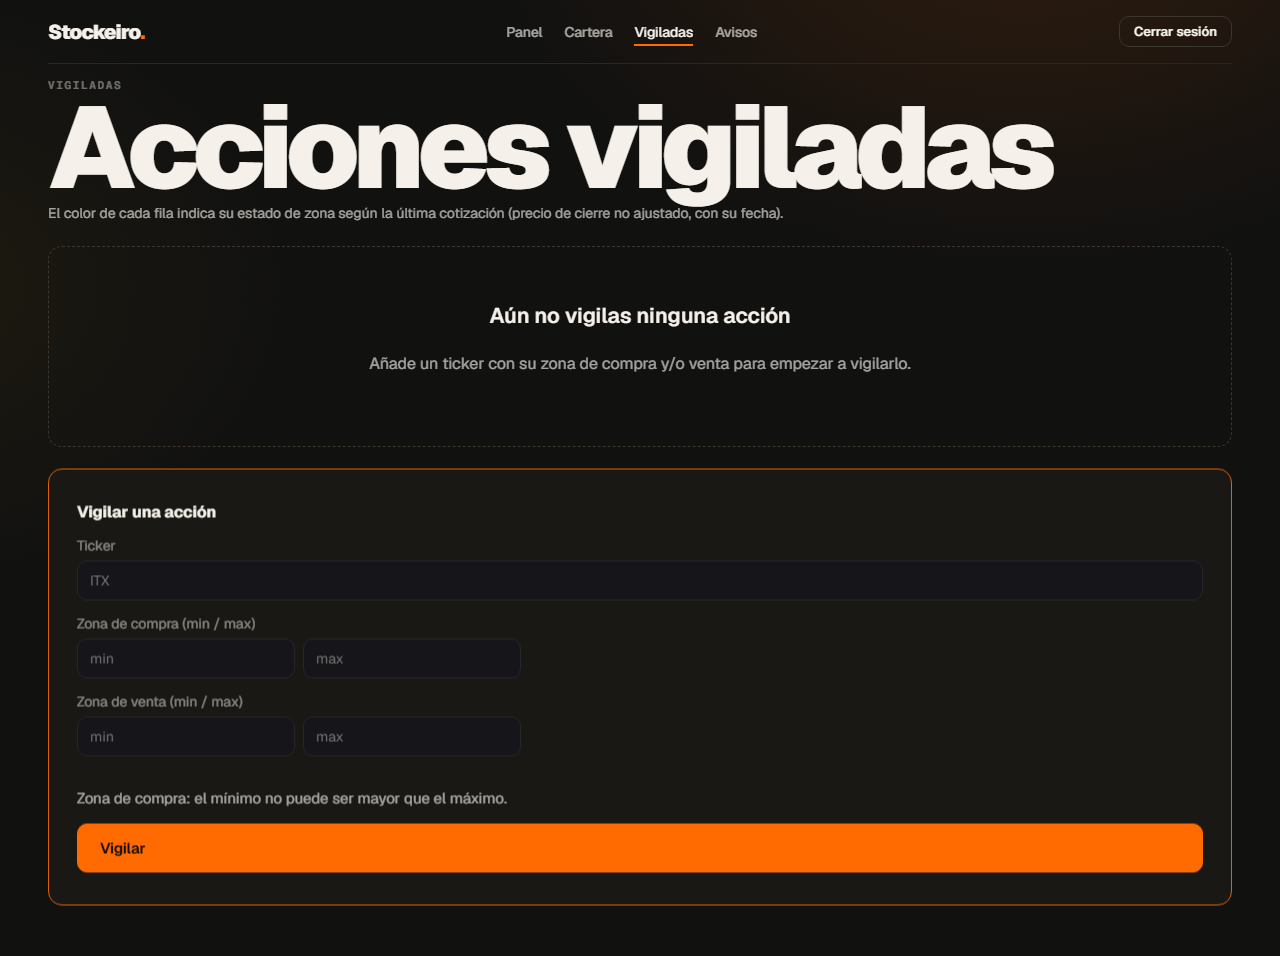
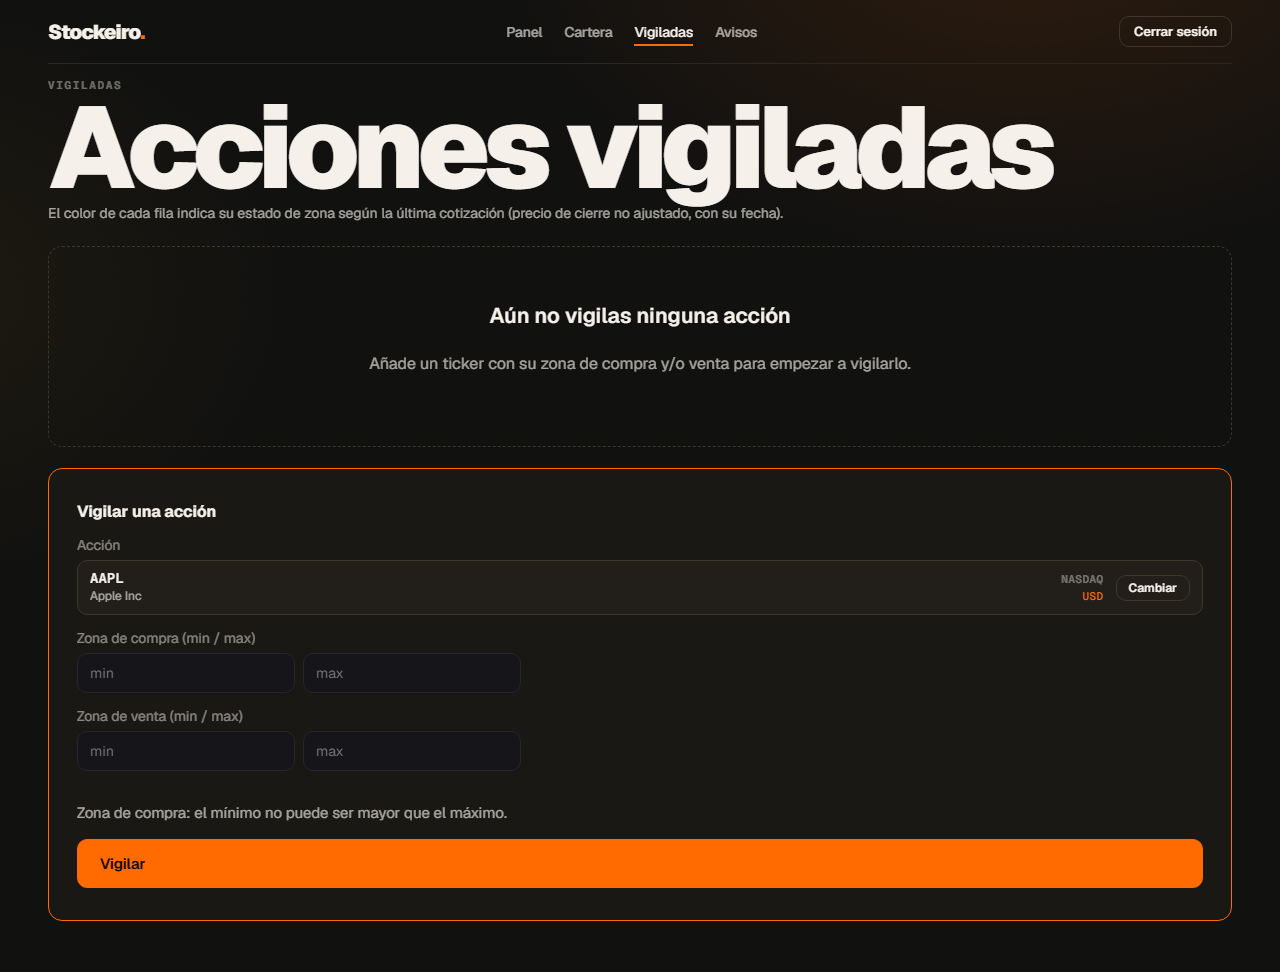
test(SPEC-008): veredicto RED del verificador — regresión buscador no resetea
Gates verde (105 unit) salvo e2e avisos-zona (2º alta): SymbolSearch no
se resetea tras envío con éxito. Ledger con Verif/Estado y V-SPEC-008-1;
evidencia DOM en _qa/SPEC-008/. Spec -> en-progreso.

Refs: SPEC-008

diff --git a/_qa/SPEC-008/V-SPEC-008-1-buscador-no-resetea.md b/_qa/SPEC-008/V-SPEC-008-1-buscador-no-resetea.md
@@ -1,0 +1,207 @@
+# Instructions
+
+- Following Playwright test failed.
+- Explain why, be concise, respect Playwright best practices.
+- Provide a snippet of code with the fix, if possible.
+
+# Test info
+
+- Name: avisos-zona.spec.ts >> SPEC-007: /vigiladas colorea la fila según el estado de zona
+- Location: tests\e2e\avisos-zona.spec.ts:52:1
+
+# Error details
+
+```
+Test timeout of 60000ms exceeded.
+```
+
+```
+Error: locator.fill: Test timeout of 60000ms exceeded.
+Call log:
+  - waiting for locator('form').filter({ hasText: 'Vigilar una acción' }).locator('.symbol-search-input')
+
+```
+
+# Page snapshot
+
+```yaml
+- generic [active] [ref=e1]:
+  - generic [ref=e2]:
+    - navigation "Principal" [ref=e3]:
+      - link "Stockeiro." [ref=e4] [cursor=pointer]:
+        - /url: /dashboard
+      - generic [ref=e5]:
+        - link "Panel" [ref=e6] [cursor=pointer]:
+          - /url: /dashboard
+        - link "Cartera" [ref=e7] [cursor=pointer]:
+          - /url: /cartera
+        - link "Vigiladas" [ref=e8] [cursor=pointer]:
+          - /url: /vigiladas
+        - link "Avisos" [ref=e9] [cursor=pointer]:
+          - /url: /avisos
+      - button "Cerrar sesión" [ref=e11] [cursor=pointer]
+    - main [ref=e12]:
+      - generic [ref=e13]:
+        - generic [ref=e14]: Vigiladas
+        - heading "Acciones vigiladas" [level=1] [ref=e15]
+        - paragraph [ref=e16]: El color de cada fila indica su estado de zona según la última cotización (precio de cierre no ajustado, con su fecha).
+      - table [ref=e18]:
+        - rowgroup [ref=e19]:
+          - row "Ticker Estado Precio A fecha Zona compra Zona venta acciones" [ref=e20]:
+            - columnheader "Ticker" [ref=e21]
+            - columnheader "Estado" [ref=e22]
+            - columnheader "Precio" [ref=e23]
+            - columnheader "A fecha" [ref=e24]
+            - columnheader "Zona compra" [ref=e25]
+            - columnheader "Zona venta" [ref=e26]
+            - columnheader "acciones" [ref=e27]
+        - rowgroup [ref=e28]:
+          - row "REP Sin cotización — — 20 – 25 — Quitar" [ref=e29]:
+            - cell "REP" [ref=e30]
+            - cell "Sin cotización" [ref=e31]:
+              - generic [ref=e32]: Sin cotización
+            - cell "—" [ref=e34]
+            - cell "—" [ref=e35]
+            - cell "20 – 25" [ref=e36]
+            - cell "—" [ref=e37]
+            - cell "Quitar" [ref=e38]:
+              - button "Quitar" [ref=e40] [cursor=pointer]
+      - generic [ref=e41]:
+        - strong [ref=e42]: Vigilar una acción
+        - generic [ref=e43]:
+          - generic [ref=e44]: Acción
+          - generic [ref=e45]:
+            - generic [ref=e46]:
+              - strong [ref=e47]: REP
+              - generic [ref=e48]: Repsol SA
+            - generic [ref=e49]:
+              - generic [ref=e50]: BME
+              - generic [ref=e51]: EUR
+            - button "Cambiar" [ref=e52] [cursor=pointer]
+        - generic [ref=e53]:
+          - text: Zona de compra (min / max)
+          - generic [ref=e54]:
+            - textbox "Zona de compra (min / max)" [ref=e55]:
+              - /placeholder: min
+            - textbox "max" [ref=e56]
+        - generic [ref=e57]:
+          - text: Zona de venta (min / max)
+          - generic [ref=e58]:
+            - textbox "Zona de venta (min / max)" [ref=e59]:
+              - /placeholder: min
+            - textbox "max" [ref=e60]
+        - button "Vigilar" [ref=e61] [cursor=pointer]
+  - alert [ref=e62]
+```
+
+# Test source
+
+```ts
+  1   | import { test, expect, type Page } from '@playwright/test';
+  2   | import postgres from 'postgres';
+  3   | 
+  4   | // Render real de SPEC-007: color de fondo según estado de zona en /vigiladas, y bandeja
+  5   | // /avisos con contador de no-leídos y marcar-leído. Se siembran cotizaciones/avisos por SQL
+  6   | // (como haría la ingesta/notificación), sin llamar a APIs externas.
+  7   | const DB_URL = 'postgres://postgres:postgres@localhost:54329/stockeiro_e2e';
+  8   | const SHOTS = '_qa/SPEC-007';
+  9   | const PWD = 'clave-secreta-123';
+  10  | 
+  11  | async function registrarYEntrar(page: Page, email: string) {
+  12  |   await page.goto('/register');
+  13  |   await page.fill('input[name="email"]', email);
+  14  |   await page.fill('input[name="password"]', PWD);
+  15  |   await page.click('button[type="submit"]');
+  16  |   await page.waitForURL('**/dashboard');
+  17  | }
+  18  | 
+  19  | async function vigilar(page: Page, ticker: string, buyMin?: string, buyMax?: string) {
+  20  |   const form = page.locator('form', { hasText: 'Vigilar una acción' });
+  21  |   // SPEC-008: elegir del buscador (E2E_FAKE_SYMBOL_SEARCH=1) en vez de teclear el ticker.
+> 22  |   await form.locator('.symbol-search-input').fill(ticker);
+      |                                              ^ Error: locator.fill: Test timeout of 60000ms exceeded.
+  23  |   await form.locator('.symbol-result', { hasText: ticker }).first().click();
+  24  |   if (buyMin) await form.locator('input[name="buyMin"]').fill(buyMin);
+  25  |   if (buyMax) await form.locator('input[name="buyMax"]').fill(buyMax);
+  26  |   await form.locator('button[type="submit"]').click();
+  27  |   await expect(page.locator('tr', { hasText: ticker })).toBeVisible();
+  28  | }
+  29  | 
+  30  | async function withSql<T>(fn: (sql: ReturnType<typeof postgres>) => Promise<T>): Promise<T> {
+  31  |   const sql = postgres(DB_URL, { ssl: false, max: 1 });
+  32  |   try {
+  33  |     return await fn(sql);
+  34  |   } finally {
+  35  |     await sql.end();
+  36  |   }
+  37  | }
+  38  | const seedQuote = (ticker: string, price: string) =>
+  39  |   withSql(async (sql) => {
+  40  |     const [s] = await sql`SELECT id FROM symbols WHERE ticker = ${ticker}`;
+  41  |     await sql`INSERT INTO quotes (symbol_id, price, currency, as_of)
+  42  |       VALUES (${s.id}, ${price}, 'EUR', '2026-07-13T00:00:00.000Z')
+  43  |       ON CONFLICT (symbol_id) DO UPDATE SET price = EXCLUDED.price, as_of = EXCLUDED.as_of`;
+  44  |   });
+  45  | const seedDigest = (email: string, cycleRef: string, payload: string) =>
+  46  |   withSql(async (sql) => {
+  47  |     const [u] = await sql`SELECT id FROM users WHERE email = ${email}`;
+  48  |     await sql`INSERT INTO notifications (user_id, kind, cycle_ref, payload, channel, status, as_of)
+  49  |       VALUES (${u.id}, 'digest', ${cycleRef}, ${payload}, 'email', 'sent', '2026-07-13T00:00:00.000Z')`;
+  50  |   });
+  51  | 
+  52  | test('SPEC-007: /vigiladas colorea la fila según el estado de zona', async ({ page }) => {
+  53  |   await registrarYEntrar(page, 'zona1@example.com');
+  54  |   await page.goto('/vigiladas');
+  55  | 
+  56  |   // Tickers EXCLUSIVOS de este spec (símbolos compartidos, ADR-002): no reutilizar
+  57  |   // ITX/AAPL/SAN que otros e2e asumen sin cotización.
+  58  |   await vigilar(page, 'REP', '20', '25'); // en zona con precio 22
+  59  |   await vigilar(page, 'TEF', '10', '15'); // sin cotización -> neutro
+  60  |   await seedQuote('REP', '22');
+  61  |   await page.reload();
+  62  | 
+  63  |   // CA-1: REP en zona de compra -> fila con clase zone-buy y etiqueta de texto.
+  64  |   const rep = page.locator('tr', { hasText: 'REP' });
+  65  |   await expect(rep).toHaveClass(/zone-buy/);
+  66  |   await expect(rep).toContainText('En zona de compra');
+  67  |   await expect(rep).toContainText('2026-07-13'); // CA-4 asOf
+  68  | 
+  69  |   // CA-2: TEF sin cotización -> neutro.
+  70  |   const tef = page.locator('tr', { hasText: 'TEF' });
+  71  |   await expect(tef).toHaveClass(/zone-none/);
+  72  |   await expect(tef).toContainText('Sin cotización');
+  73  | 
+  74  |   await page.screenshot({ path: `${SHOTS}/ca1-vigiladas-estado-zona.png`, fullPage: true });
+  75  | });
+  76  | 
+  77  | test('SPEC-007: bandeja /avisos con contador de no-leídos y marcar-leído', async ({ page }) => {
+  78  |   await registrarYEntrar(page, 'avisos1@example.com');
+  79  |   await seedDigest('avisos1@example.com', 'c1', 'Permanencia en zona: ITX (compra)');
+  80  |   await seedDigest('avisos1@example.com', 'c2', 'Permanencia en zona: AAPL (compra)');
+  81  | 
+  82  |   // CA-10: el contador de la nav muestra 2 sin leer.
+  83  |   await page.goto('/dashboard');
+  84  |   await expect(page.locator('.nav-count')).toHaveText('2');
+  85  | 
+  86  |   await page.goto('/avisos');
+  87  |   await expect(page.locator('.notif-item.unread')).toHaveCount(2); // CA-6
+  88  | 
+  89  |   // CA-8: marcar uno como leído baja el contador a 1.
+  90  |   await page.locator('.notif-item.unread').first().locator('button', { hasText: 'Marcar leído' }).click();
+  91  |   await expect(page.locator('.nav-count')).toHaveText('1');
+  92  |   await expect(page.locator('.notif-item.unread')).toHaveCount(1);
+  93  |   await page.screenshot({ path: `${SHOTS}/ca8-avisos-marcar-leido.png`, fullPage: true });
+  94  | 
+  95  |   // CA-9: marcar todos -> contador desaparece (0) y estado "Todo al día".
+  96  |   await page.locator('button', { hasText: 'Marcar todos como leídos' }).click();
+  97  |   await expect(page.locator('.nav-count')).toHaveCount(0);
+  98  |   await expect(page.locator('main')).toContainText('Todo al día');
+  99  | });
+  100 | 
+  101 | test('SPEC-007: /avisos sin avisos muestra estado vacío', async ({ page }) => {
+  102 |   await registrarYEntrar(page, 'vacio1@example.com');
+  103 |   await page.goto('/avisos');
+  104 |   await expect(page.locator('.empty')).toContainText('Aún no tienes avisos'); // CA-7
+  105 | });
+  106 | 
+```

diff --git a/docs/epicas/EPIC-001-vigilancia-de-zonas-de-compra-venta-con-cartera-y-avisos/SPEC-008-buscador-de-simbolos-por-nombre.ledger.md b/docs/epicas/EPIC-001-vigilancia-de-zonas-de-compra-venta-con-cartera-y-avisos/SPEC-008-buscador-de-simbolos-por-nombre.ledger.md
@@ -15,19 +15,39 @@ epica: EPIC-001
 <!-- Un CA está ✅ solo cuando Implementado + Test + Verif. aplicables están en verde. Una salvedad se marca ⚠, nunca ✅. -->
 | CA | Implementado (fichero) | Test (fichero/caso) | Verif. | Estado |
 |---|---|---|---|---|
-| CA-1 Buscar por nombre | `src/lib/market/search.ts` (`searchSymbols`), `search-provider.ts`, `twelve-data-search-provider.ts` | `tests/symbol-search.test.ts` › CA-1 busca "Microsoft" → MSFT | | |
-| CA-2 Solo renta variable (D-7) | `src/lib/market/search.ts` (filtro `type==='stock'`) | `tests/symbol-search.test.ts` › CA-2 descarta cripto/ETF | | |
-| CA-3 Desambiguación por mercado | `search.ts` + UI `symbol-search.tsx` (opciones por micCode) | `tests/symbol-search.test.ts` › CA-3 dos mercados SAN | | |
-| CA-4 Selección fija identidad+divisa | `src/lib/portfolio/symbols.ts` (`getOrCreateSymbol` market), `symbol-selection.ts`, actions | `tests/symbol-identity.test.ts` › CA-4 (vigilar/comprar) | | |
-| CA-5 Símbolo compartido por (ticker,micCode) | `src/lib/portfolio/symbols.ts`, `db/schema.ts` (unique) | `tests/symbol-identity.test.ts` › CA-5 (mismo/otro mercado) | | |
-| CA-6 Coherencia símbolo↔cotización | `src/lib/market/provider.ts` (`QuoteRequest`), `refresh.ts`, `twelve-data-provider.ts` (mic_code→/eod) | `tests/market-mic-code.test.ts` › CA-6 (petición con micCode; dos mercados) | | |
-| CA-7 Búsqueda exige sesión (RN-03) | `src/lib/market/search.ts` (`runSymbolSearch`), `symbol-search-action.ts` | `tests/symbol-search.test.ts` › CA-7 sin/con sesión | | |
-| CA-8 Resiliencia del proveedor | `src/lib/market/search.ts` (try/catch), UI estado `error`; `readSymbolSelection` (no guardar sin resolver) | `tests/symbol-search.test.ts` › CA-8 proveedor falla | | |
-| CA-9 Ambos formularios, componente compartido | `src/app/_components/symbol-search.tsx` en `watch-form.tsx` y `portfolio-forms.tsx` | e2e `vigiladas.spec.ts` + `ingesta-cartera.spec.ts` (flujo buscador) | | |
-| CA-10 Debounce + umbral | `symbol-search.tsx` (debounce 300ms, MIN 2), `search.ts` (`MIN_QUERY_LENGTH`, red del servidor) | `tests/symbol-search.test.ts` › CA-2 «umbral no consulta» | | |
+| CA-1 Buscar por nombre | `src/lib/market/search.ts` (`searchSymbols`), `search-provider.ts`, `twelve-data-search-provider.ts` | `tests/symbol-search.test.ts` › CA-1 busca "Microsoft" → MSFT | ✅ unit verde + e2e (REP/AAPL/ITX encontrados y elegidos en navegador) | ✅ |
+| CA-2 Solo renta variable (D-7) | `src/lib/market/search.ts` (filtro `type==='stock'`) | `tests/symbol-search.test.ts` › CA-2 descarta cripto/ETF | ✅ unit verde | ✅ |
+| CA-3 Desambiguación por mercado | `search.ts` + UI `symbol-search.tsx` (opciones por micCode) | `tests/symbol-search.test.ts` › CA-3 dos mercados SAN | ✅ unit verde (SAN XMAD/XNYS separados, divisas distintas) | ✅ |
+| CA-4 Selección fija identidad+divisa | `src/lib/portfolio/symbols.ts` (`getOrCreateSymbol` market), `symbol-selection.ts`, actions | `tests/symbol-identity.test.ts` › CA-4 (vigilar/comprar) | ✅ unit verde + e2e (chip muestra BME · EUR real, no EUR fijo) | ✅ |
+| CA-5 Símbolo compartido por (ticker,micCode) | `src/lib/portfolio/symbols.ts`, `db/schema.ts` (unique) | `tests/symbol-identity.test.ts` › CA-5 (mismo/otro mercado) | ✅ unit verde | ✅ |
+| CA-6 Coherencia símbolo↔cotización | `src/lib/market/provider.ts` (`QuoteRequest`), `refresh.ts`, `twelve-data-provider.ts` (mic_code→/eod) | `tests/market-mic-code.test.ts` › CA-6 (petición con micCode; dos mercados) | ✅ unit verde (cada mercado su precio/divisa) | ✅ |
+| CA-7 Búsqueda exige sesión (RN-03) | `src/lib/market/search.ts` (`runSymbolSearch`), `symbol-search-action.ts` | `tests/symbol-search.test.ts` › CA-7 sin/con sesión | ✅ unit verde | ✅ |
+| CA-8 Resiliencia del proveedor | `src/lib/market/search.ts` (try/catch), UI estado `error`; `readSymbolSelection` (no guardar sin resolver) | `tests/symbol-search.test.ts` › CA-8 proveedor falla | ✅ unit verde | ✅ |
+| CA-9 Ambos formularios, componente compartido | `src/app/_components/symbol-search.tsx` en `watch-form.tsx` y `portfolio-forms.tsx` | e2e `vigiladas.spec.ts` + `ingesta-cartera.spec.ts` (flujo buscador) | ❌ **REGRESIÓN**: el buscador NO se resetea tras un alta con éxito → no se puede añadir una segunda acción sin pulsar "Cambiar"; rompe `avisos-zona.spec.ts` (2º `vigilar`). Ver V-SPEC-008-1. | 🚧 |
+| CA-10 Debounce + umbral | `symbol-search.tsx` (debounce 300ms, MIN 2), `search.ts` (`MIN_QUERY_LENGTH`, red del servidor) | `tests/symbol-search.test.ts` › CA-2 «umbral no consulta» | ✅ unit verde | ✅ |
 
 ## Veredicto del verificador
-<!-- GREEN/RED + fecha + resumen. Lo escribe SOLO sdd-verificador. -->
+**RED — 2026-07-14 (sdd-verificador), iteración 1/3.**
+
+Gates: `tsc` limpio, `eslint` 0 errores (1 warning preexistente ajeno), `vitest run`
+**105/105 verde**. e2e Playwright: **11/12** — falla `avisos-zona.spec.ts:52` de forma
+determinista. Los 10 CA cumplen su contrato a nivel unit/integración; 9/10 quedan ✅.
+El RED lo dispara una **regresión de flujo** en la UI (gate de regresión):
+
+- **V-SPEC-008-1 (bloqueante).** El componente `SymbolSearch` no se **resetea tras un
+  envío con éxito**: mantiene el estado `selected` y sigue mostrando el chip de la acción
+  anterior, ocultando el campo de búsqueda. Consecuencia: para añadir una **segunda**
+  acción (vigilar varias seguidas, o comprar tras vigilar) el usuario está obligado a
+  pulsar "Cambiar". Evidencia DOM (Playwright): tras vigilar `REP`, el form "Vigilar una
+  acción" muestra `REP · Repsol SA · BME · EUR · [Cambiar]` en vez del buscador, y el 2º
+  `vigilar('TEF')` agota el timeout esperando `.symbol-search-input`. Rompe un e2e de
+  SPEC-007 y es un defecto de UX real para el objetivo de UI profesional (la watchlist se
+  llena de varias acciones). Fichero: `src/app/_components/symbol-search.tsx` +
+  formularios `watch-form.tsx`/`portfolio-forms.tsx`.
+  **Fix sugerido**: al pasar `state` a `{ok:true}` (useActionState), resetear la selección
+  del buscador — p. ej. remontar `<SymbolSearch key={okCounter} />` o exponer un
+  `resetSignal` que limpie `selected`/`query`. Cubrirlo dejando pasar el 2º `vigilar` del
+  e2e ya existente.
 
 ## Evidencia visual
 <!-- Tabla CA → captura en _qa/SPEC-008/. Informe HTML opcional: _qa/SPEC-008/informe.html -->

diff --git a/docs/epicas/EPIC-001-vigilancia-de-zonas-de-compra-venta-con-cartera-y-avisos/SPEC-008-buscador-de-simbolos-por-nombre.md b/docs/epicas/EPIC-001-vigilancia-de-zonas-de-compra-venta-con-cartera-y-avisos/SPEC-008-buscador-de-simbolos-por-nombre.md
@@ -2,13 +2,14 @@
 id: SPEC-008
 tipo: spec
 epica: EPIC-001
-estado: en-revision
+estado: en-progreso
 aprobada-por:
 historial:
   - {estado: borrador, fecha: 2026-07-14, por: sdd-arquitecto}
   - {estado: aprobada, fecha: 2026-07-14, por: humano (Alberto Fojo)}
   - {estado: en-progreso, fecha: 2026-07-14, por: sdd-implementador}
   - {estado: en-revision, fecha: 2026-07-14, por: sdd-implementador}
+  - {estado: en-progreso, fecha: 2026-07-14, por: sdd-verificador}
 ---
 # SPEC-008 — Buscador de simbolos por nombre
 
